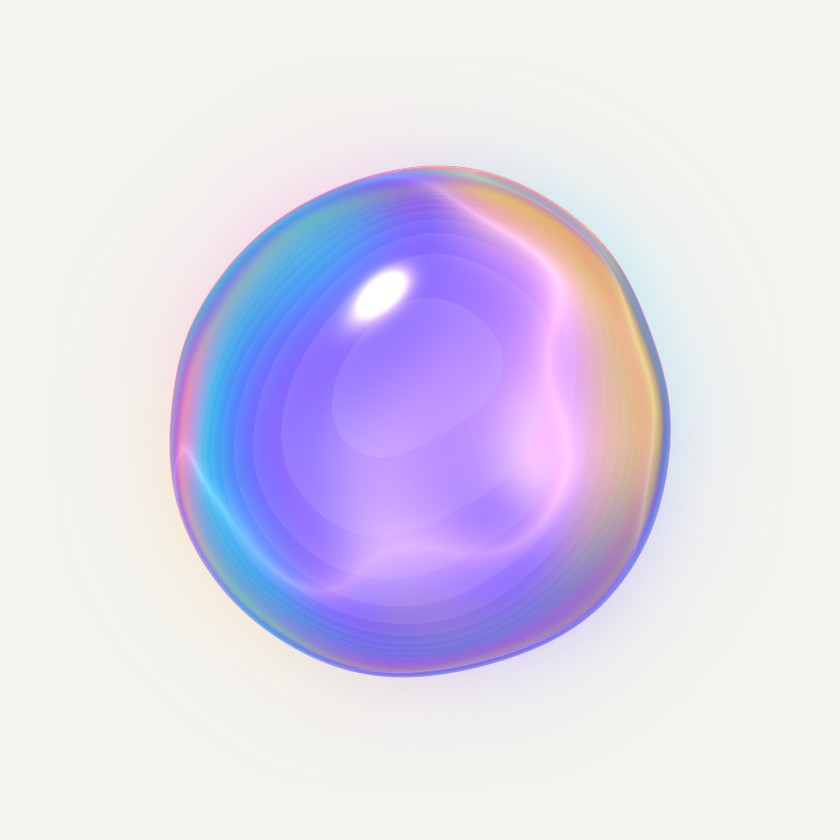
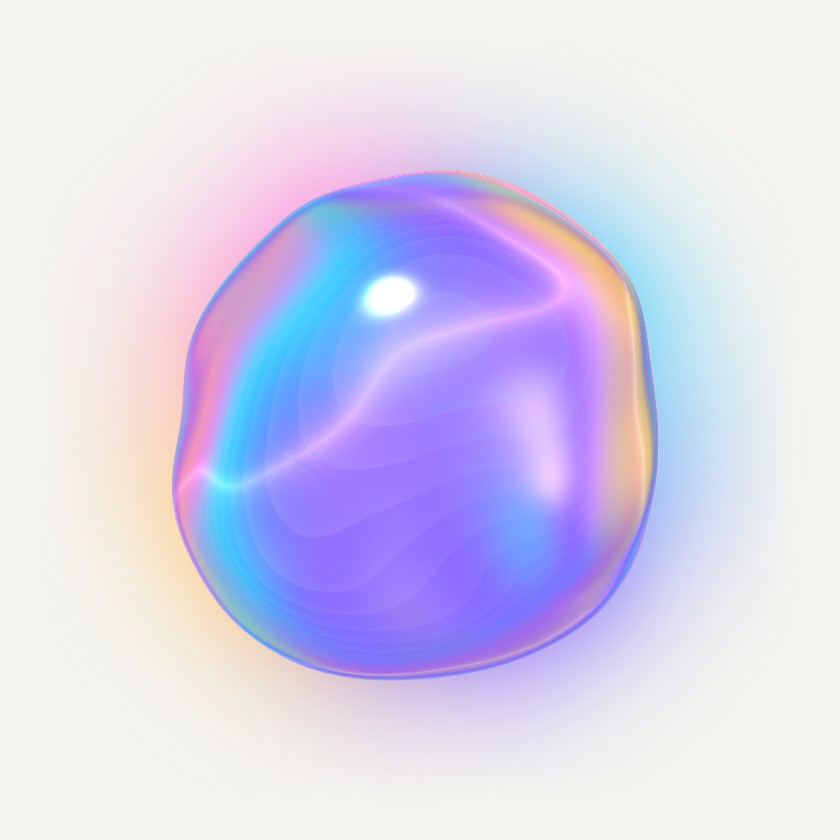
Lab: AI Blob starts from Jarek's glass setup (sweep 1.15, glow 1.35, halo 2.1, rim 2.05, core 1.55, glints 1.7, detail 1.05, wobble 0.76, colour speed 1.7), kept as the Glass preset; other presets start from the component's neutral values; the copied tag compares with those, so it carries the whole 

diff --git a/lab-board/pieces/ai-blob/index.html b/lab-board/pieces/ai-blob/index.html
@@ -110,10 +110,13 @@ const PALS = [['aurora', 'Aurora'], ['ocean', 'Ocean'], ['sunset', 'Sunset'], ['
 // (the tunables: settings key → attribute, label, min, max, step)
 const TUNE = [['sweep', 'sweep', 'Light sweep (glass)', 0, 2, .05], ['glow', 'glow', 'Glow', 0, 2, .05], ['halo', 'halo', 'Halo', 0, 2.5, .05], ['rim', 'rim', 'Rim', 0, 2.5, .05], ['core', 'core', 'Core', 0, 2.5, .05], ['glints', 'glints', 'Glints', 0, 2, .05],
   ['detail', 'detail', 'Detail', .3, 3, .05], ['wobble', 'wobble', 'Wobble', 0, 1, .01], ['cspeed', 'color-speed', 'Colour speed', 0, 4, .05]];
+// (the component's own neutral values, and Jarek's base for the glass, 20.10: the lab starts from it)
+const NEUTRAL = { sweep: 1, glow: 1, halo: 1, rim: 1, core: 1, glints: 1, detail: 1, wobble: 0, cspeed: 1 };
+const GLASS_BASE = { sweep: 1.15, glow: 1.35, halo: 2.1, rim: 2.05, core: 1.55, glints: 1.7, detail: 1.05, wobble: .76, cspeed: 1.7 };
 const DEF = { variant: 'glass', state: 'default', theme: 'light', blend: 'auto', palette: 'aurora', h: 285, c: 72, t: 52, speed: 1, view: 'one', ground: false, lift: 1, interactive: true, intro: true,
-  sweep: 1, glow: 1, halo: 1, rim: 1, core: 1, glints: 1, detail: 1, wobble: 0, cspeed: 1 };
+  ...GLASS_BASE };
 // (presets: an orb, its colours and a few settings that suit it)
-const PRESETS = [['Iridescent', { variant: 'halo', palette: 'aurora' }], ['Pearl', { variant: 'halo', palette: 'mono', glow: .8, rim: .8, core: 1.3 }], ['Liquid', { variant: 'glass', palette: 'ocean' }], ['Lava lamp', { variant: 'core', palette: 'aurora' }], ['Northern', { variant: 'aurora', palette: 'mint' }],
+const PRESETS = [['Glass', { variant: 'glass', palette: 'aurora', ...GLASS_BASE }], ['Iridescent', { variant: 'halo', palette: 'aurora' }], ['Pearl', { variant: 'halo', palette: 'mono', glow: .8, rim: .8, core: 1.3 }], ['Liquid', { variant: 'glass', palette: 'ocean' }], ['Lava lamp', { variant: 'core', palette: 'aurora' }], ['Northern', { variant: 'aurora', palette: 'mint' }],
   ['Neural', { variant: 'synapse', palette: 'ocean' }], ['Chrome', { variant: 'mercury', palette: 'mono' }], ['Opal', { variant: 'mercury', palette: 'aurora' }],
   ['Silk', { variant: 'cloud', palette: 'sunset' }], ['Smoke', { variant: 'nebula', palette: 'aurora', halo: 1.4 }], ['Print', { variant: 'dots', palette: 'aurora', detail: 1.3 }],
   ['Calm', { variant: 'swirl', palette: 'ocean' }], ['Orbit', { variant: 'rings', palette: 'mint', rim: 1.3 }], ['Stardust', { variant: 'swarm', palette: 'sunset' }]];
@@ -130,7 +133,7 @@ const colours = () => P.palette === 'custom' ? seedColours() : null;
 
 // ---------- applying the settings to every orb on the page ----------
 const attrs = () => { const a = {}; if (P.blend !== 'auto') a.blend = P.blend; if (P.ground) { a.ground = ''; if (P.lift !== 1) a.lift = P.lift; } if (!P.interactive) a.interactive = 'false'; if (!P.intro) a.intro = 'false';
-  if (P.speed !== 1) a.speed = P.speed; for (const [k, at] of TUNE) if (P[k] !== DEF[k]) a[at] = P[k]; return a; };
+  if (P.speed !== 1) a.speed = P.speed; for (const [k, at] of TUNE) if (P[k] !== NEUTRAL[k]) a[at] = P[k]; return a; };   // (against the component's own defaults, so the copied tag keeps the tuning)
 function apply() { const cols = colours(), a = attrs(), names = ['blend', 'ground', 'lift', 'interactive', 'intro', 'speed', ...TUNE.map(t => t[1])];
   for (const b of all()) { b.variant = P.variant; b.removeAttribute('theme'); for (const n of names) { if (n in a) b.setAttribute(n, a[n]); else b.removeAttribute(n); }
     if (cols) b.colors = cols; else { b.removeAttribute('colors'); b.palette = P.palette === 'custom' ? 'aurora' : P.palette; } }
@@ -170,7 +173,7 @@ function buildPanel() { panel.innerHTML = '';
   const set = (k, v) => { P[k] = v; save(); apply(); };
   const gP = LabUI.group(panel, 'Presets', { key: KEY + '.g.pre', open: true }), pb = document.createElement('div'); pb.className = 'presets'; gP.appendChild(pb);
   pb.innerHTML = PRESETS.map(([n]) => `<button type="button" data-n="${n}">${n}</button>`).join('');
-  pb.querySelectorAll('button').forEach(b => b.onclick = () => { const pr = PRESETS.find(p => p[0] === b.dataset.n)[1]; for (const [k] of TUNE) P[k] = DEF[k]; Object.assign(P, pr); save(); syncCtl(); apply(); });
+  pb.querySelectorAll('button').forEach(b => b.onclick = () => { const pr = PRESETS.find(p => p[0] === b.dataset.n)[1]; for (const [k] of TUNE) P[k] = NEUTRAL[k]; Object.assign(P, pr); save(); syncCtl(); apply(); });
   const g1 = LabUI.group(panel, 'Look', { key: KEY + '.g.look', open: true });
   ctl.palette = LabUI.seg(g1, { label: 'Colours', options: PALS, value: P.palette, onChange: v => set('palette', v) });
   ctl.blend = LabUI.seg(g1, { label: 'Blend', options: [['auto', 'Auto'], ['ink', 'Ink'], ['glow', 'Glow']], value: P.blend, onChange: v => set('blend', v) });
@@ -205,7 +208,7 @@ function buildPanel() { panel.innerHTML = '';
   acts.querySelector('#reset').onclick = () => { const keep = { theme: P.theme, view: P.view, state: P.state }; P = { ...DEF, ...keep }; save(); syncCtl(); apply(); }; }
 function syncCtl() { for (const k in ctl) if (k in P) ctl[k].set?.(P[k]); }
 function vis() { if (ctl.lift) ctl.lift.row.style.display = P.ground ? '' : 'none'; const dn = $('dnote'); if (dn) dn.style.display = P.ground ? '' : 'none'; }
-function markPresets() { panel.querySelectorAll('[data-n]').forEach(b => { const pr = PRESETS.find(p => p[0] === b.dataset.n)[1]; b.classList.toggle('on', Object.entries(pr).every(([k, v]) => P[k] === v) && TUNE.every(([k]) => k in pr || P[k] === DEF[k])); }); }
+function markPresets() { panel.querySelectorAll('[data-n]').forEach(b => { const pr = PRESETS.find(p => p[0] === b.dataset.n)[1]; b.classList.toggle('on', Object.entries(pr).every(([k, v]) => P[k] === v) && TUNE.every(([k]) => k in pr || P[k] === NEUTRAL[k])); }); }
 function paintChips() { const el = $('chips'); if (!el) return; const cols = colours() || (customElements.get('ai-blob')?.palettes[P.palette === 'custom' ? 'aurora' : P.palette]) || [];
   el.innerHTML = cols.map(c => `<span style="background:${c}" title="${c}"></span>`).join('') || '<p class="note">The colour library did not load (offline?); the ready palettes still work.</p>'; }
 function paintCode() { const el = $('code'); if (!el) return; const cols = colours(), a = attrs();

diff --git a/lab-board/index.html b/lab-board/index.html
@@ -546,7 +546,7 @@ const CFG = {
 // ---------- content (placeholder data: Jarek's own experiments) ----------
 const PIECES = [
   { slug:'ai-wave', fresh:true, title:'AI Wave', what:'The AirDrop wave, used to show an AI at work. On the screen of an assistant app, a wave of light runs out of the orb as it starts to think, bending everything it passes over like a lens, its edge split into a rainbow; softer waves follow while it speaks, and one runs in to it while it listens. Tap the screen to send a wave from anywhere. Three waves (AirDrop, Ripple, Glow) and a panel for speed, width, bend, rainbow and light. A draft.', year:'2026', kind:'interaction', live:'pieces/ai-wave/', code:'https://github.com/vod123qwe/playground/tree/main/lab-board/pieces/ai-wave', image:'thumbs/ai-wave.jpg?v=2', words:['ai', 'airdrop', 'wave', 'shader', 'lens'], rect:{x:3640,y:420,w:360,h:560} },
-  { slug:'ai-blob', fresh:true, variants:12, title:'AI Blob', what:'A living orb for an AI assistant, made as one web component you can drop into any page. Twelve orbs drawn in shaders (a clear glass halo with a flowing rim and a glowing core, liquid glass bending the light, four glass vessels with a world inside: drops of liquid light, an aurora, synapses with sparks running along them, liquid mercury, a silk colour cloud, a nebula of smoke, a halftone of dots, a calm swirl of one colour, a swarm of points, glowing rings) and seven states that morph into one another: default, listening, speaking, thinking, connecting, error and muted. It can stand on a ground in perspective: muted, it sits down; awake, it stands up and floats over its shadow. Tap it to squeeze it, it pops in on start, moves to a built-in voice or your microphone, draws clean colour on light pages and glows on dark ones. Presets, fine tuning, palettes or one HCT seed colour, and the tag to copy.', year:'2026', kind:'interaction', live:'pieces/ai-blob/', code:'https://github.com/vod123qwe/playground/tree/main/lab-board/pieces/ai-blob', image:'thumbs/ai-blob.jpg?v=4', words:['ai', 'voice', 'shader', 'webgl', 'web component', 'states', 'depth'], rect:{x:3100,y:900,w:420,h:420} },
+  { slug:'ai-blob', fresh:true, variants:12, title:'AI Blob', what:'A living orb for an AI assistant, made as one web component you can drop into any page. Twelve orbs drawn in shaders (a clear glass halo with a flowing rim and a glowing core, liquid glass bending the light, four glass vessels with a world inside: drops of liquid light, an aurora, synapses with sparks running along them, liquid mercury, a silk colour cloud, a nebula of smoke, a halftone of dots, a calm swirl of one colour, a swarm of points, glowing rings) and seven states that morph into one another: default, listening, speaking, thinking, connecting, error and muted. It can stand on a ground in perspective: muted, it sits down; awake, it stands up and floats over its shadow. Tap it to squeeze it, it pops in on start, moves to a built-in voice or your microphone, draws clean colour on light pages and glows on dark ones. Presets, fine tuning, palettes or one HCT seed colour, and the tag to copy.', year:'2026', kind:'interaction', live:'pieces/ai-blob/', code:'https://github.com/vod123qwe/playground/tree/main/lab-board/pieces/ai-blob', image:'thumbs/ai-blob.jpg?v=5', words:['ai', 'voice', 'shader', 'webgl', 'web component', 'states', 'depth'], rect:{x:3100,y:900,w:420,h:420} },
   { slug:'glass-button', variants:6, title:'Glass Button', what:'An Ask AI button made of real, ray-traced glass. Hold it and it swells, let go and the menu (Write, Summarise, Translate) flows out of it; the label is printed on the surface and the icon is a glass bead with a symbol, a flowing orb or a carving. A panel tunes shape, refraction, light, glow and sound; hold the wheel to orbit.', year:'2026', kind:'interaction', live:'pieces/glass-button/', code:'https://github.com/vod123qwe/playground/tree/main/lab-board/pieces/glass-button', image:'thumbs/glass-button.jpg', depth:'thumbs/depth/glass-button.png', video:'thumbs/glass-button-hover.webm', words:['glass', 'light', 'spectral', 'mercury'], rect:{x:560,y:70,w:460,h:260} },
   // empty slots: the next experiments land here
   { slug:'like-button', fresh:true, preview:'pieces/like-button/?demo=1', variants:2, title:'Like Button', what:'A like, made to feel like a small reward. Press and the heart dips under the finger; let go and it fills, a ring and a spray of dots burst round it and the count rolls on by one. Two looks: Classic (a crisp burst) and Liquid (the colour poured in with a wave). Light and dark; a panel tunes every layer, small hearts floating up included.', year:'2026', kind:'interaction', live:'pieces/like-button/', code:'https://github.com/vod123qwe/playground/tree/main/lab-board/pieces/like-button', image:'thumbs/like-button.jpg', words:['heart', 'burst', 'liquid', 'reward'], rect:{x:90,y:100,w:330,h:460} },

diff --git a/lab-board/pieces/ai-blob/README.md b/lab-board/pieces/ai-blob/README.md
@@ -57,6 +57,9 @@ Ciało kuli ma sprężyny: wysokość nad podłogą (każdy stan swoją: Muted 0
 
 ## Presety (panel)
 
+**Baza labu (Glass, ustawienia Jarka z 20.10):** Light sweep 1,15, Glow 1,35, Halo 2,10, Rim 2,05, Core 1,55, Glints 1,70, Detail 1,05, Wobble 0,76, Colour speed 1,70. Od niej lab startuje i do niej wraca Reset; preset **Glass** ustawia ją z powrotem. Pozostałe presety startują od wartości neutralnych komponentu (wszystko 1, Wobble 0), a tag do skopiowania porównuje z tymi neutralnymi, więc zawsze niesie całe strojenie.
+
+
 Iridescent (halo, aurora), Pearl (halo, mono), Liquid (glass, ocean), Lava lamp (core), Northern (aurora, mint), Neural (synapse, ocean), Chrome (mercury, mono), Opal (mercury, aurora), Silk (cloud, sunset), Smoke (nebula), Print (dots), Calm (swirl, ocean), Orbit (rings, mint), Stardust (swarm, sunset). Preset ustawia kulę, paletę i kilka suwaków, reszta wraca do domyślnych.
 
 ## Kolory
